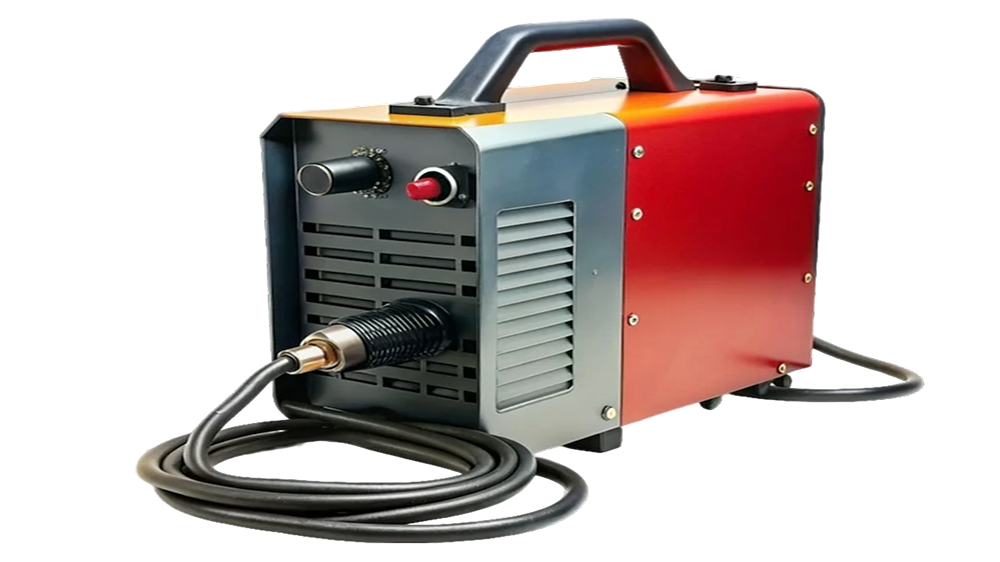
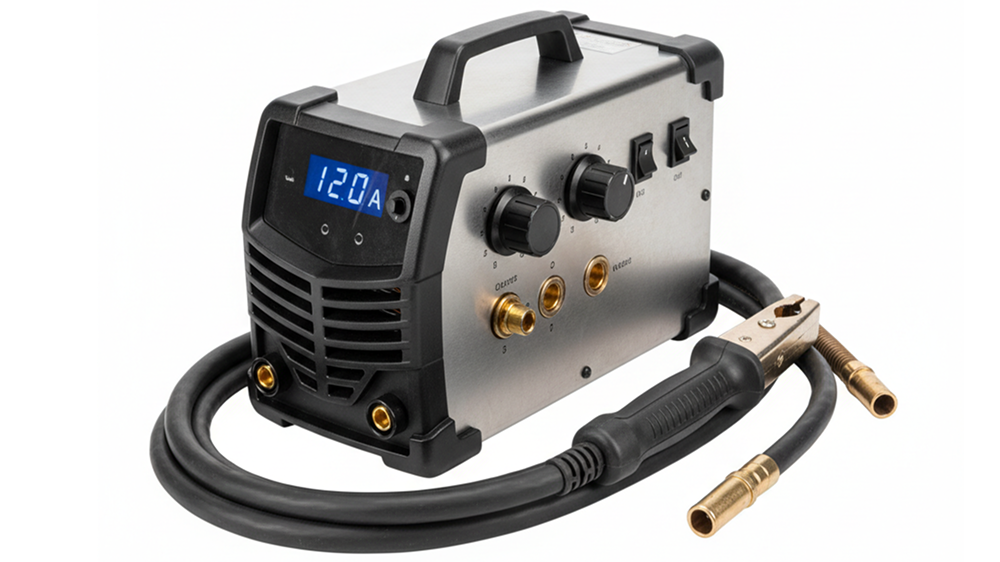
Ready for Render

diff --git a/resources/js/Pages/Welcome.vue b/resources/js/Pages/Welcome.vue
@@ -239,14 +239,28 @@ function submit() {
         flex-direction: column;
         height: 750px;
     }
-    main img{
-        display: block;
-        width: 800px;
-        position: absolute;
-        top: 37%;
-        left: 50%;
-        transform: translate(-50%, -50%);       
-    }
+    main img {
+  display: block;
+  width: 700px;
+  position: absolute;
+  top: 37%;
+  left: 65%;
+  transform: translate(-50%, -50%);
+  z-index: -1;
+  animation: slowFloat 10s ease-in-out infinite;
+}
+
+@keyframes slowFloat {
+  0% {
+    transform: translate(-50%, -50%);
+  }
+  50% {
+    transform: translate(-50%, -53%);
+  }
+  100% {
+    transform: translate(-50%, -50%);
+  }
+}
     .main-text{
         display: flex;
         justify-content: space-between;

diff --git a/resources/js/Pages/Services.vue b/resources/js/Pages/Services.vue
@@ -90,9 +90,11 @@ main {
   width: 976px;
 }
 .maska{
+  width: 600px;
   position: absolute;
-  top: -20%;
-  right: -50%;
+  top: -10%;
+  right: -65%;
+  z-index: -1;
 }
 
 /* секции */